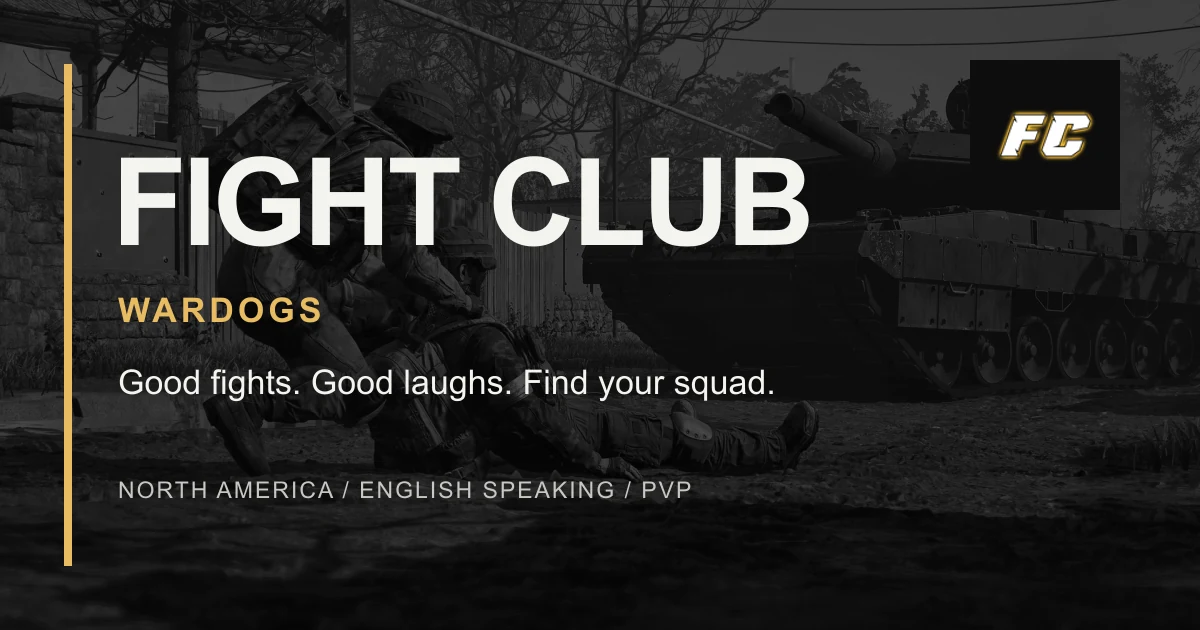
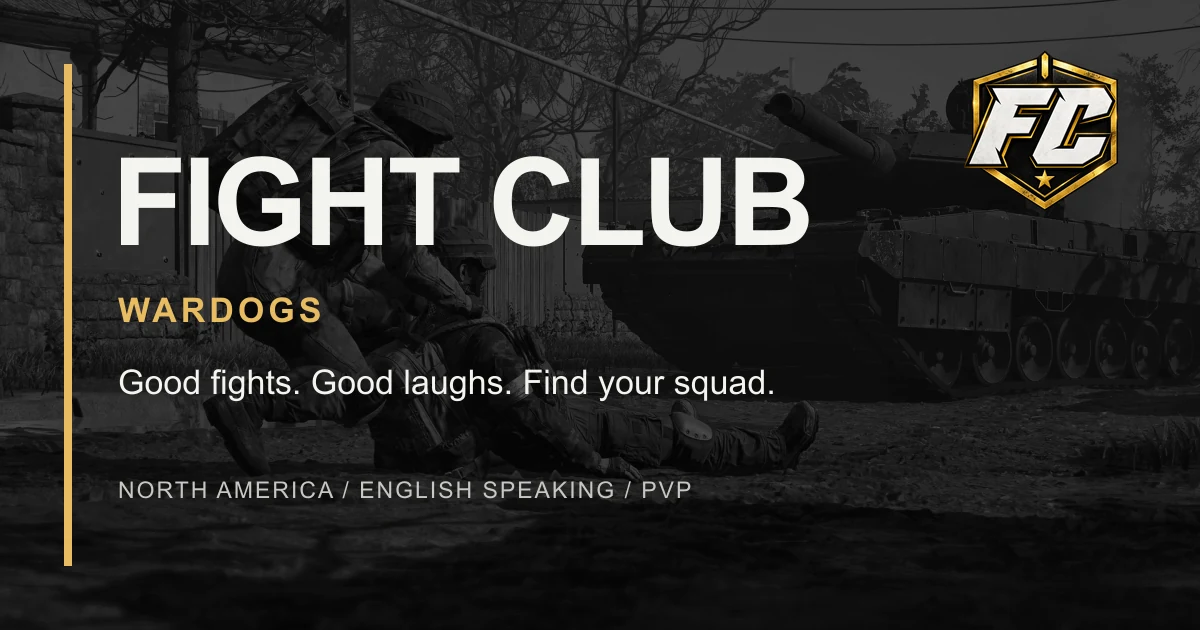
Refactor code structure for improved readability and maintainability

Changed region(s): [[0.8017, 0.0905, 0.9558, 0.3317]]

diff --git a/app/globals.css b/app/globals.css
@@ -70,8 +70,8 @@ a:focus-visible {
   top: 15px;
 }
 .site-header {
-  min-height: 96px;
-  padding: 20px 5%;
+  min-height: 92px;
+  padding: 14px 5%;
   display: flex;
   align-items: center;
   justify-content: space-between;
@@ -82,22 +82,12 @@ a:focus-visible {
 .brand {
   display: flex;
   align-items: center;
-  gap: 13px;
 }
 .brand img {
-  width: 46px;
-  height: 46px;
-  border-radius: 50%;
-}
-.brand > span {
-  font-family: var(--font-display), Impact, sans-serif;
-  font-size: 21px;
-  font-weight: 700;
-  line-height: 0.95;
-  letter-spacing: 0.03em;
-}
-.brand > span > span {
-  display: block;
+  width: 106px;
+  height: auto;
+  object-fit: contain;
+  filter: drop-shadow(0 3px 7px rgba(232, 188, 98, 0.22));
 }
 .header-note,
 .hero-bottom,
@@ -228,14 +218,10 @@ h1 > span:not(.sr-only) {
   position: absolute;
   top: -30px;
   right: -20px;
-  width: 128px;
-  height: 128px;
+  width: 142px;
+  height: 142px;
   display: grid;
   place-items: center;
-  overflow: hidden;
-  border: 2px solid var(--primary);
-  border-radius: 50%;
-  background: #111;
   transform: rotate(4deg);
   filter: drop-shadow(0 8px 16px rgba(0, 0, 0, 0.45));
 }
@@ -243,8 +229,7 @@ h1 > span:not(.sr-only) {
   display: block;
   width: 100%;
   height: 100%;
-  object-fit: cover;
-  border-radius: 50%;
+  object-fit: contain;
 }
 .hero-bottom {
   position: absolute;
@@ -477,8 +462,8 @@ footer > a:last-child {
     height: 510px;
   }
   .club-seal {
-    width: 108px;
-    height: 108px;
+    width: 118px;
+    height: 118px;
   }
   .story h2 {
     font-size: clamp(40px, 5vw, 60px);
@@ -506,18 +491,11 @@ footer > a:last-child {
 @media (max-width: 640px) {
   .site-header {
     min-height: 82px;
-    padding: 17px 6%;
+    padding: 10px 6%;
     gap: 14px;
   }
-  .brand {
-    gap: 9px;
-  }
   .brand img {
-    width: 37px;
-    height: 37px;
-  }
-  .brand > span {
-    font-size: 18px;
+    width: 94px;
   }
   .join-compact {
     min-width: 166px;
@@ -555,8 +533,8 @@ footer > a:last-child {
     object-position: center;
   }
   .club-seal {
-    width: 96px;
-    height: 96px;
+    width: 104px;
+    height: 104px;
     right: -13px;
     top: -20px;
   }
@@ -660,7 +638,7 @@ footer > a:last-child {
 }
 @media (max-width: 380px) {
   .brand img {
-    display: none;
+    width: 84px;
   }
   .closing h2 {
     font-size: 15vw;

diff --git a/app/page.tsx b/app/page.tsx
@@ -24,10 +24,12 @@ export default function Home() {
       </a>
       <header className="site-header">
         <a href="#main" className="brand" aria-label={community.name}>
-          <img src="/images/server-icon.png" width="48" height="48" alt="" />
-          <span>
-            WARDOGS<span>FIGHT CLUB</span>
-          </span>
+          <img
+            src="/images/wdfc-header-lockup.webp"
+            width="512"
+            height="312"
+            alt=""
+          />
         </a>
         <span className="header-note">
           INDEPENDENT COMMUNITY / NORTH AMERICA
@@ -50,7 +52,7 @@ export default function Home() {
             <span className="photo-label">GOOD FIGHTS. BETTER COMPANY.</span>
             <span className="club-seal" aria-hidden="true">
               <img
-                src="/images/server-icon.png"
+                src="/images/wdfc-logo-512.webp"
                 width="128"
                 height="128"
                 alt=""

diff --git a/app/layout.tsx b/app/layout.tsx
@@ -20,14 +20,14 @@ const display = Barlow_Condensed({
 export const metadata: Metadata = {
   metadataBase: new URL(
     process.env.NEXT_PUBLIC_SITE_URL ??
-    (process.env.VERCEL_PROJECT_PRODUCTION_URL
-      ? `https://${process.env.VERCEL_PROJECT_PRODUCTION_URL}`
-      : 'http://localhost:3000'),
+      (process.env.VERCEL_PROJECT_PRODUCTION_URL
+        ? `https://${process.env.VERCEL_PROJECT_PRODUCTION_URL}`
+        : 'http://localhost:3000'),
   ),
   title: `${community.name} — Find your squad`,
   description:
     'Join the English-speaking WARDOGS PvP community in North America.',
-  icons: { icon: '/images/server-icon.png' },
+  icons: { icon: '/images/wdfc-logo-192.png' },
   openGraph: {
     type: 'website',
     title: `${community.name} — Find your squad`,

diff --git a/README.md b/README.md
@@ -35,6 +35,14 @@ another community using the same image.
 The editable squad PNG is kept at `assets/source/meet-the-squad.png` so it is
 not included in the public site bundle.
 
+The official WDFC mark is kept at `assets/source/wdfc-logo.png`. The image
+preparation script creates a transparent 512px WebP for the page and a 192px
+PNG for browser icons. The previous server icon remains in
+`assets/source/legacy-server-icon.png` and is no longer published.
+
+The compact header lockup is kept at `assets/source/wdfc-header-lockup.png` and
+is published as a trimmed 512px WebP.
+
 - Hero: https://shared.akamai.steamstatic.com/store_item_assets/steam/apps/1867240/13fbc7cb084ec25c20ad031c7e888a9459cd8e77/ss_13fbc7cb084ec25c20ad031c7e888a9459cd8e77.1920x1080.jpg
 - Revival: https://shared.akamai.steamstatic.com/store_item_assets/steam/apps/1867240/672d7ce9debe7a3bcfa5feee5fccc3d8b482b13e/ss_672d7ce9debe7a3bcfa5feee5fccc3d8b482b13e.1920x1080.jpg
 - Logo: https://cdn.discordapp.com/icons/1536551110989447168/15fb93d815bbfb39b18cd43bb6a379b8.png?size=512
